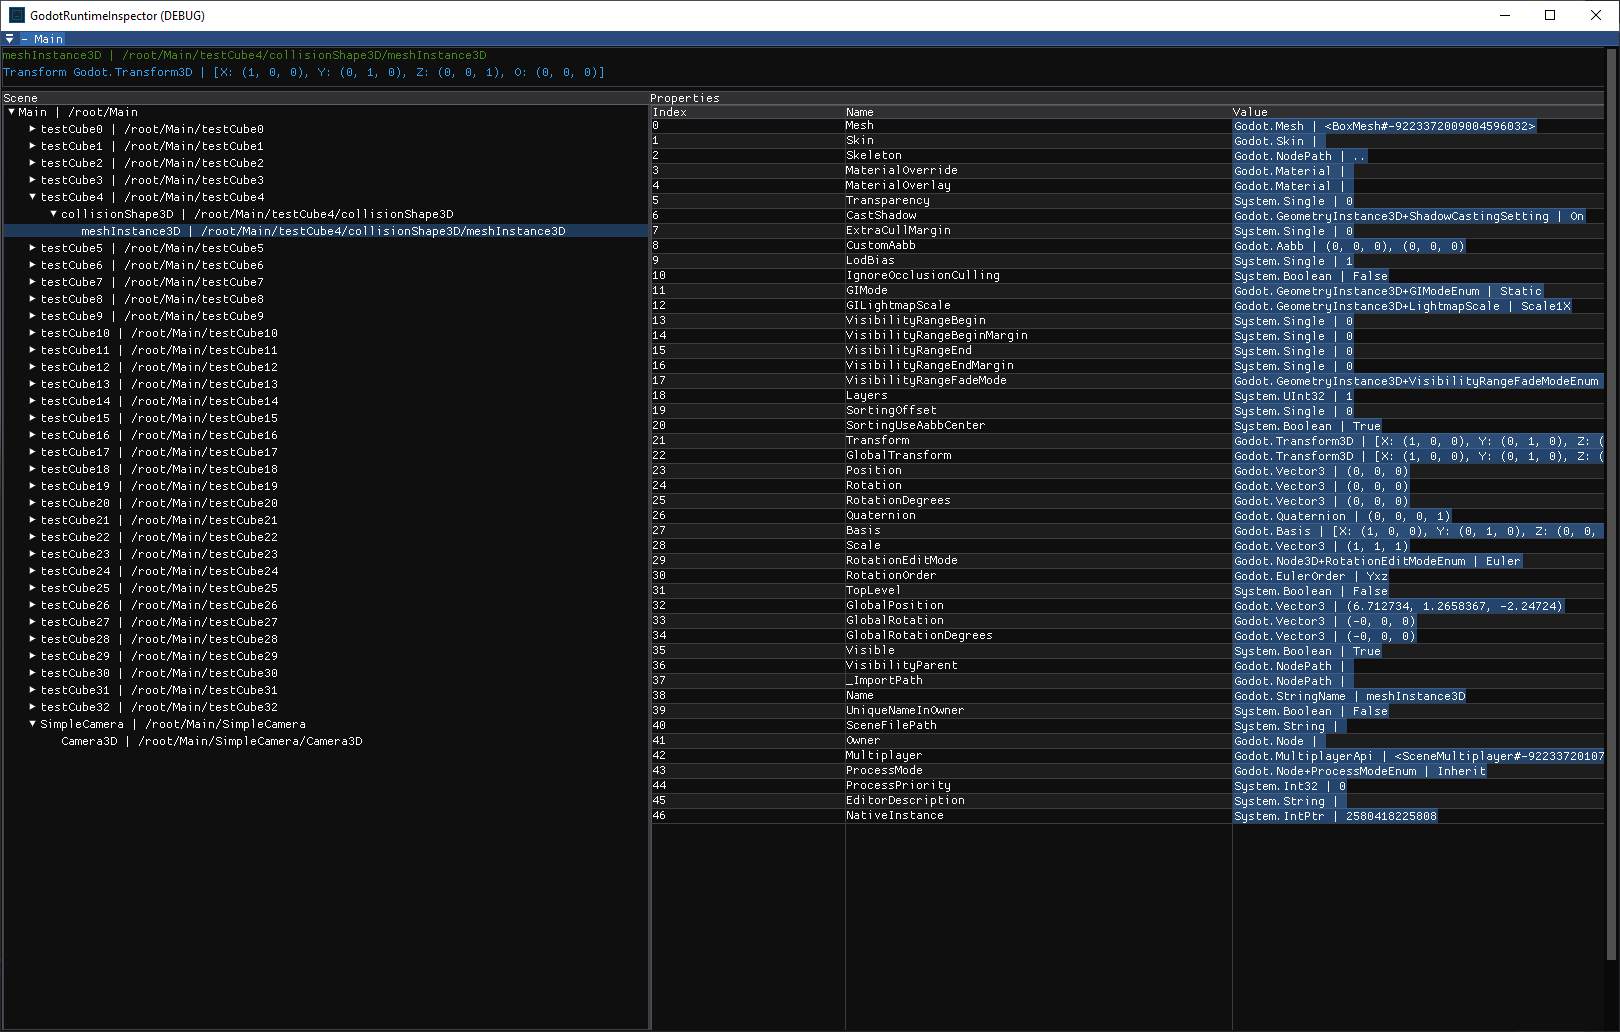
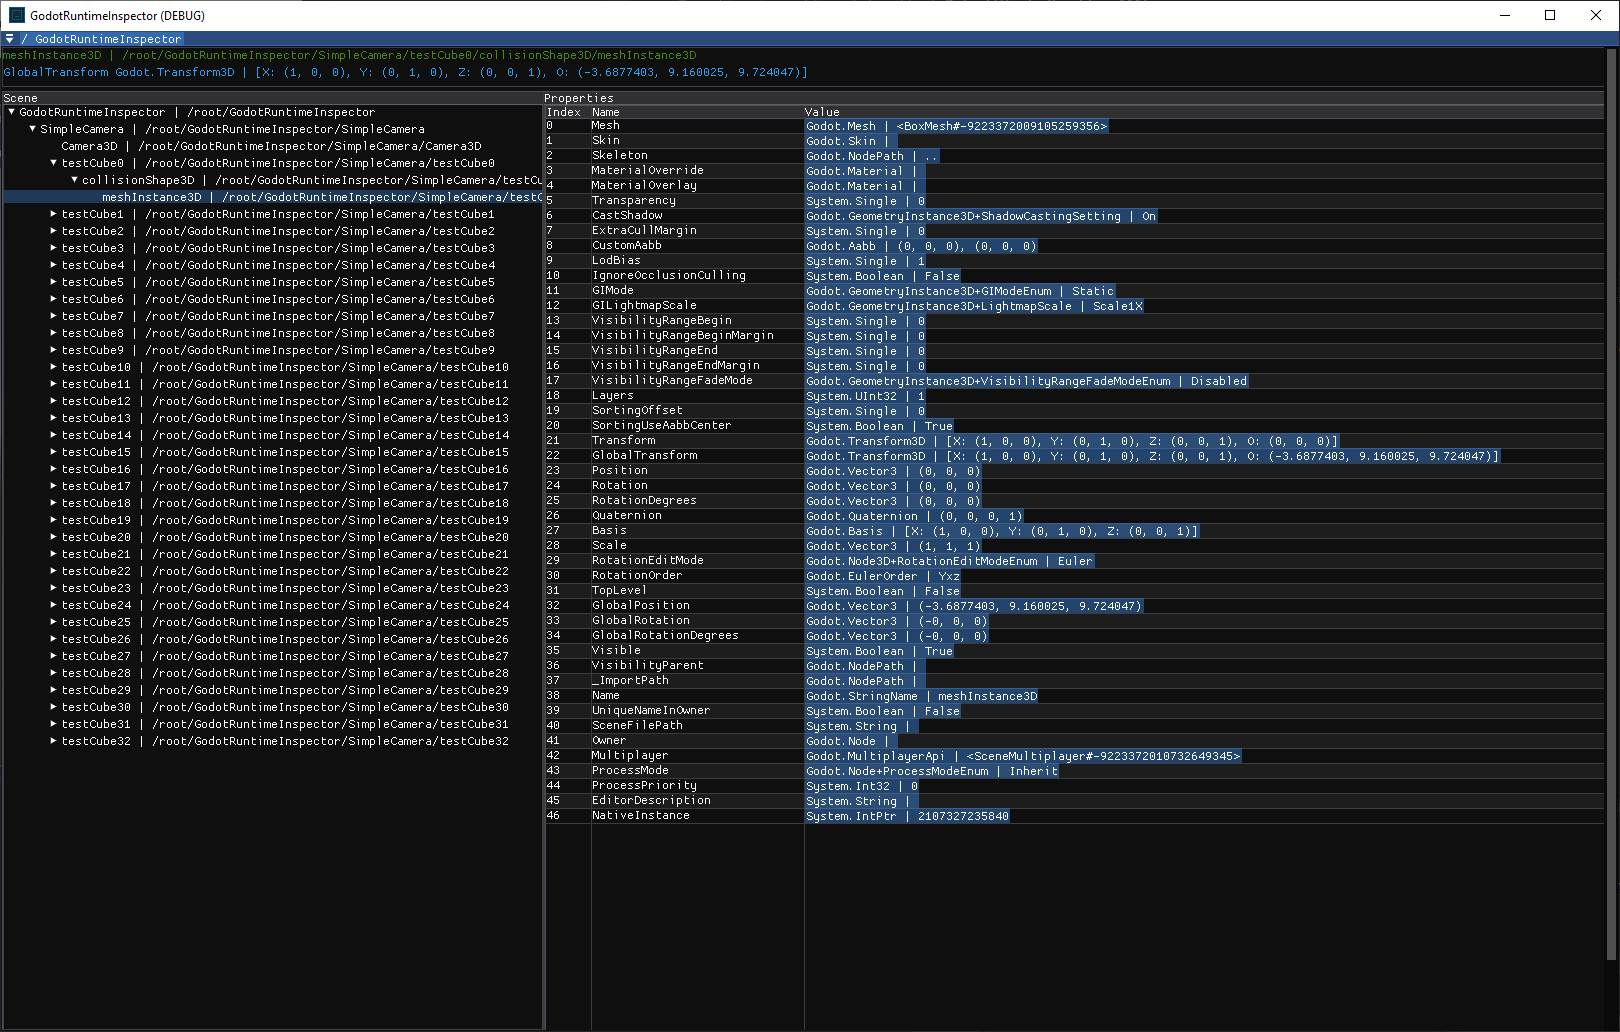
dev

diff --git a/GodotRunTimeInspector/Scripts/GodotRuntimeInspector.cs b/GodotRunTimeInspector/Scripts/GodotRuntimeInspector.cs
@@ -16,26 +16,45 @@ namespace GodotRuntimeInspector.Scripts
         public override void _Ready()
         {
             Godot.DisplayServer.WindowSetVsyncMode(Godot.DisplayServer.VSyncMode.Disabled);
-            int result = Godot.Engine.MaxFps = MaxFps;
+            Godot.Engine.MaxFps = MaxFps;
 
-            // C# has no preload, so you have to always use ResourceLoader.Load<PackedScene>().
-            //Godot.Node scene = Godot.ResourceLoader.Load<Godot.PackedScene>("res://" + nameof(GodotRuntimeInspector) + "/" + nameof(SimpleCamera) + ".tscn").Instantiate();
-            // Add the node as a child of the node the script is attached to.
-            //AddChild(scene);
+            string res = "res://";
+            string extension = ".tscn";
+            string debugPath = res + nameof(GodotRuntimeInspector) + "/" + nameof(GodotRuntimeInspector) + extension;
+            string simpleCamera = res + nameof(GodotRuntimeInspector) + "/" + nameof(SimpleCamera) + extension;
+
+            bool isDebug = System.String.Equals(debugPath, SceneFilePath, System.StringComparison.InvariantCultureIgnoreCase);
+
+            string diff = SceneFilePath.Length + " " + debugPath.Length;
+
+            Godot.GD.Print(nameof(SceneFilePath) + " " + SceneFilePath);
+            Godot.GD.Print(nameof(debugPath) + " " + debugPath);
+            Godot.GD.Print(nameof(isDebug) + " " + isDebug);
+            Godot.GD.Print(nameof(diff) + " " + diff);
+
+            if (isDebug == true)
+            {
+
+                // C# has no preload, so you have to always use ResourceLoader.Load<PackedScene>().
+                Godot.Node scene = Godot.ResourceLoader.Load<Godot.PackedScene>(simpleCamera).Instantiate();
+                // Add the node as a child of the node the script is attached to.
+                AddChild(scene);
+            }
         }
 
         // Called every frame. 'delta' is the elapsed time since the previous frame.
         public override void _Process(double delta)
         {
+            if (Enabled == false)
+            {
+                return;
+            }
+
             FPS = 1.0 / delta;
             MAINVIEWPORTPTR = ImGui.GetMainViewport();
             IOPTR = ImGui.GetIO();
             IOPTR.ConfigFlags |= ImGuiConfigFlags.DockingEnable;
             IOPTR.DeltaTime = (float)delta;
-            if (Enabled == false)
-            {
-                return;
-            }
 
             // make the central node invisible and inputs pass-thru
             ImGuiDockNodeFlags dockNodeFlags = ImGuiDockNodeFlags.PassthruCentralNode;

diff --git a/README.md b/README.md
@@ -7,9 +7,9 @@ A runtime inspector for the godot game engine.
 <p>
 I made this to learn about Godot Engine [1] and Dear ImGui [2].
 
-This is currently a c# godot project, but I'll try to get it working as an addon so its eaiser to import, but for now, if you want to use it:
+The files here are a c# godot project, if you want to use it:
 
--) Create a C# solution (if you haven't already) from Project > Tools > C# > Create C# solution.
+-) Create a C# solution (if you haven't already) for your project from, Project > Tools > C# > Create C# solution.
 
 -) Open the solution and allow unsafe code, and install ImGui.NET [3] with NuGet.
 
@@ -17,11 +17,11 @@ This is currently a c# godot project, but I'll try to get it working as an addon
 
 -) Enable the imgui-godot plugin in Godot, Project > Project Settings > Plugins.
 
--) Copy the GodotRunTimeInspector folder to your project
+-) Copy the GodotRunTimeInspector folder from this repository to your project
 
--) Add GodotRunTimeInspector/Scripts/GodotRunTimeInspector.cs to a node in your Scene.
-
-The Scene GodotRunTimeInspector/GodotRuntimeInspector.tscn has a demo.
+-) Add GodotRunTimeInspector/Scripts/GodotRunTimeInspector.cs to a node in your Scene. 
+or
+-) The Scene GodotRunTimeInspector/GodotRuntimeInspector.tscn has a demo.
 
 </p>
 
@@ -32,7 +32,7 @@ The Scene GodotRunTimeInspector/GodotRuntimeInspector.tscn has a demo.
 [4] https://github.com/pkdawson/imgui-godot
 </p>
 
-<img src="https://i.imgur.com/XXBmZXB.png"
+<img src="Untitled.png"
      alt="Screenshot"
      title="Screenshot"
 />
